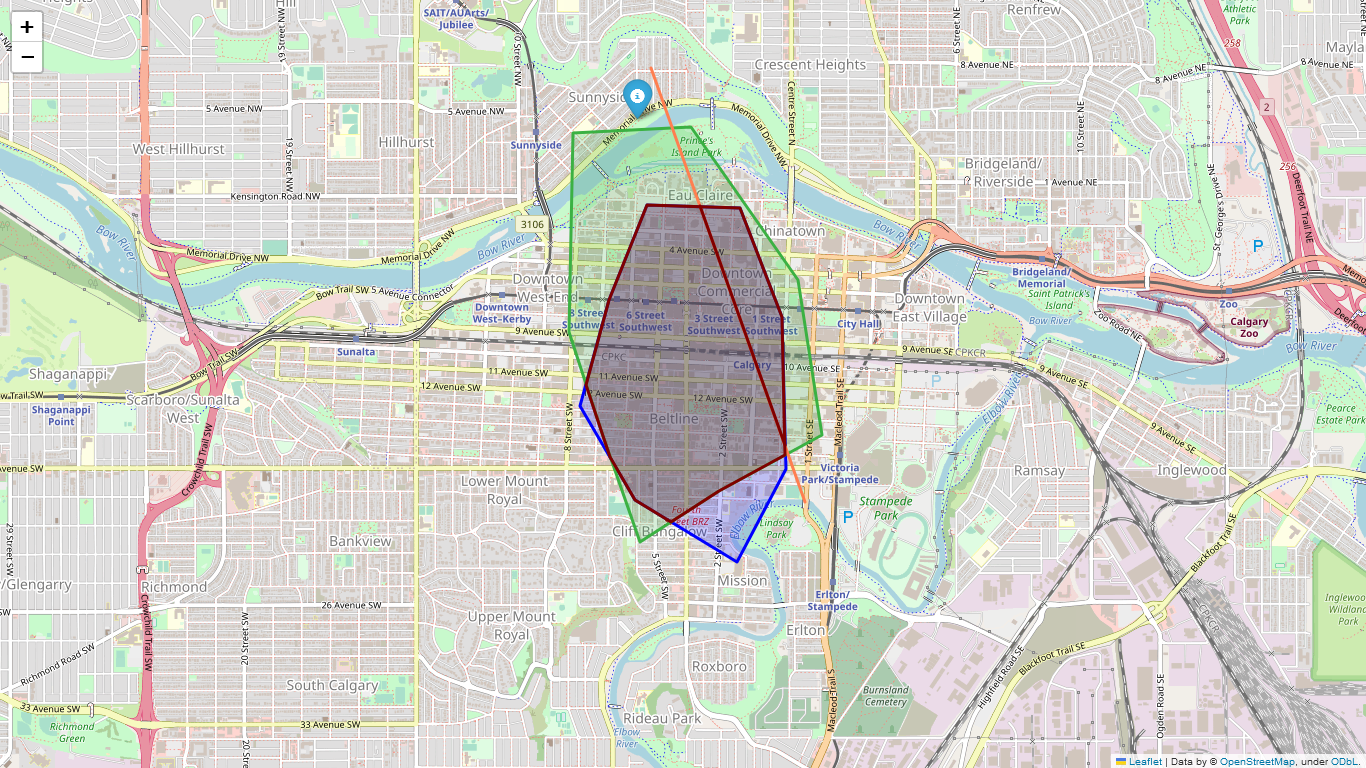
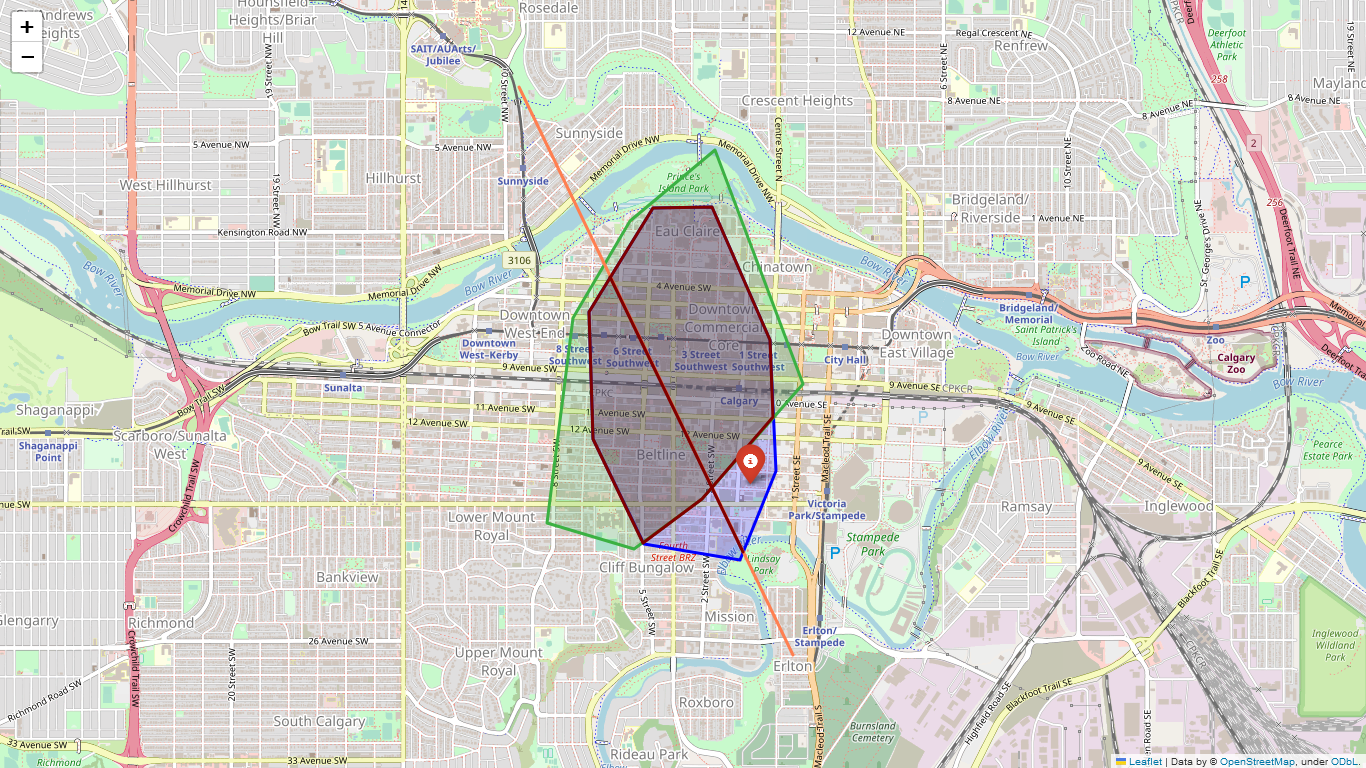
update docs

diff --git a/make_examples.py b/make_examples.py
@@ -3,6 +3,8 @@ import math
 import random
 from typing import List, Tuple
 
+random.seed(2023)
+
 
 def generate_polygon(
     center: Tuple[float, float],
@@ -104,6 +106,7 @@ import io
 import folium
 from PIL import Image
 from shapely.geometry import LineString, Point, Polygon
+from tqdm import tqdm
 
 center = (51.0447, -114.0719)
 blue = "#0000FF"
@@ -111,7 +114,7 @@ green = "#3BB143"
 orange = "#FF7F50"
 red = "#800000"
 
-for i in range(3):
+for i in tqdm(range(3), desc="Making examples"):
     m = folium.Map(location=center, zoom_start=12)
 
     poly1 = Polygon(
@@ -191,5 +194,40 @@ for i in range(3):
     img = Image.open(io.BytesIO(img_data))
     img.save(f"docs/example{i+1}.png")
 
+
+# %%
+import io
+
+import folium
+import matplotlib.pyplot as plt
+import pyproj
+from PIL import Image
+from shapely.geometry import Polygon
+from shapely.ops import transform
+
+from opendata import project
+
+m = folium.Map(location=center, zoom_start=12)
+poly1 = Polygon(
+    generate_polygon(
+        center=center[::-1],
+        avg_radius=0.01,
+        irregularity=0.35,
+        spikiness=0.2,
+        num_vertices=8,
+    )
+)
+folium.GeoJson(poly1, lambda _: {"fillColor": blue, "color": blue}).add_to(m)
+m.fit_bounds([poly1.bounds[:2][::-1], poly1.bounds[2:][::-1]])
+img_data = m._to_png(10)
+img = Image.open(io.BytesIO(img_data))
+img.save("docs/wgs84.png")
+
+
+# %%
+g = transform(project, poly1)
+fig = plt.figure()
+plt.plot(*g.exterior.xy)
+fig.savefig("docs/utm.png")
 
 # %%

diff --git a/docs/index.md b/docs/index.md
@@ -17,3 +17,11 @@ See the following examples where we use a <span style="color:blue">blue polygon<
 ![Example 2](example2.png)
 
 ![Example 3](example3.png)
+
+## Projection
+
+Use UTM projection for area / length calculation.
+
+![WGS84](wgs84.png)
+
+![UTM](utm.png)
